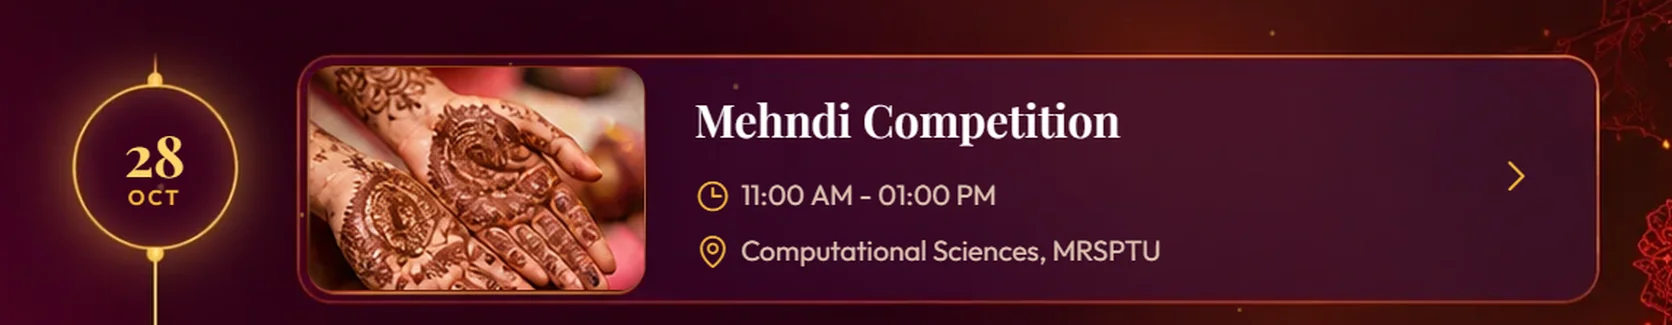
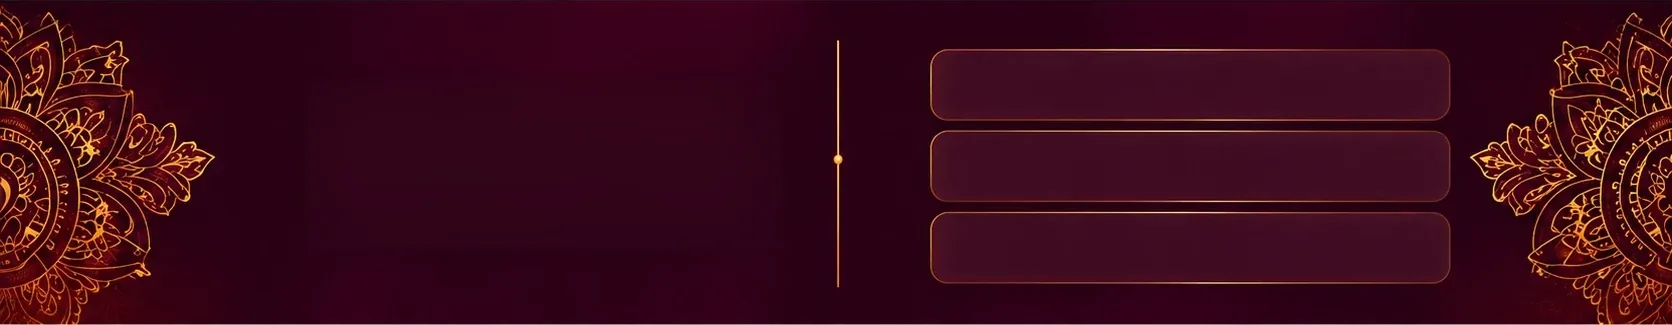
Fix overlaps left by the new hero plate and the band artwork
Restore the mandala band art (the previous file was a card screenshot)
and paint its three date boxes out; draw them in CSS so only the days
shown get a box. Frame the hero date items, give the hero and nav
Register buttons their own gold fill, hide the hero band of event
names, keep the phone campus photo clear of the heading, and stop the
marquee printing &amp;.

diff --git a/styles.css b/styles.css
@@ -85,10 +85,11 @@ section>.wrap{position:relative}
   .hn-links a{color:#fff;opacity:.92;transition:color .2s,opacity .2s}
   .hn-links a:hover{opacity:1;color:var(--gold-2)}
   .hn-reg{position:absolute;left:calc(1447*var(--u));top:calc(22*var(--u));width:calc(159*var(--u));height:calc(50*var(--u));display:flex;align-items:center;justify-content:center;
-    border-radius:var(--r-pill);color:var(--on-gold);font-weight:600;font-size:calc(20*var(--u));cursor:pointer;transition:box-shadow .25s}
+    border-radius:var(--r-pill);color:var(--on-gold);font-weight:600;font-size:calc(20*var(--u));cursor:pointer;transition:box-shadow .25s;
+    background:var(--gold) linear-gradient(180deg,var(--gold-2),var(--gold));box-shadow:0 calc(8*var(--u)) calc(24*var(--u)) rgba(242,150,40,.35)}
   .hn-reg:hover{box-shadow:0 0 calc(26*var(--u)) rgba(255,205,110,.65)}
 
-  .band{display:block;list-style:none;inset:0 0 auto 0;height:calc(150*var(--u));pointer-events:none}
+  .band{display:none;list-style:none;inset:0 0 auto 0;height:calc(150*var(--u));pointer-events:none}
   .band li{position:absolute;top:calc(100*var(--u));height:calc(46*var(--u));left:calc(var(--x)*var(--u));transform:translateX(-50%);display:flex;align-items:center;
     font-family:var(--serif);font-weight:700;font-size:calc(17.5*var(--u));letter-spacing:.13em;text-transform:uppercase;color:#4a0b24;white-space:nowrap}
 
@@ -101,7 +102,8 @@ section>.wrap{position:relative}
 
   .dates{display:block;list-style:none;left:0;top:calc(552*var(--u));width:100%;height:calc(106*var(--u));pointer-events:none}
   .dates li{position:absolute;top:0;height:100%;display:flex;align-items:center;gap:calc(18*var(--u));padding-left:calc(30*var(--u));
-    left:calc(98*var(--u));width:calc(220*var(--u));font-size:calc(21*var(--u));line-height:1.2;color:#ffe7c2;pointer-events:auto}
+    left:calc(98*var(--u));width:calc(220*var(--u));font-size:calc(21*var(--u));line-height:1.2;color:#ffe7c2;pointer-events:auto;
+    border:calc(1.5*var(--u)) solid rgba(242,181,58,.8);border-radius:calc(16*var(--u));background:linear-gradient(170deg,rgba(74,20,48,.55),rgba(42,10,29,.7));backdrop-filter:blur(4px)}
   .dates li:nth-child(2){left:calc(342*var(--u));width:calc(216*var(--u))}
   .dates li:nth-child(3){left:calc(582*var(--u));width:calc(209*var(--u))}
   .dates i{font-size:calc(34*var(--u));color:var(--gold-2)}
@@ -109,7 +111,8 @@ section>.wrap{position:relative}
 
   .hero-cta{display:block;margin:0;left:0;top:calc(702*var(--u));width:100%;height:calc(68*var(--u))}
   .hero-cta .btn{position:absolute;top:0;height:100%;min-height:0;padding:0;background:none;border:0;box-shadow:none;font-size:calc(24*var(--u));gap:calc(12*var(--u))}
-  .hero-cta .btn.gold{left:calc(97*var(--u));width:calc(268*var(--u));color:var(--on-gold)}
+  .hero-cta .btn.gold{left:calc(97*var(--u));width:calc(268*var(--u));color:var(--on-gold);border-radius:var(--r-pill);
+    background:var(--gold) linear-gradient(180deg,var(--gold-2),var(--gold));box-shadow:0 calc(10*var(--u)) calc(30*var(--u)) rgba(242,150,40,.35)}
   .hero-cta .btn.ghost{left:calc(383*var(--u));width:calc(256*var(--u));color:#fff}
   .hero-cta .btn:hover,.hero-cta .btn.gold:hover,.hero-cta .btn.ghost:hover{transform:none;background:rgba(255,255,255,.1);box-shadow:0 0 calc(28*var(--u)) rgba(255,205,110,.55)}
 }
@@ -135,8 +138,8 @@ section>.wrap{position:relative}
 .facts li{display:flex;align-items:center;gap:16px}
 .facts i{color:var(--gold);font-size:1.5rem}
 
-/* Desktop strip: band artwork (assets/ui/strip-band.webp, 1672x325) with three date boxes,
-   a divider and three venue rows built in. Content is placed in band units. */
+/* Desktop strip: band artwork (assets/ui/strip-band.webp, 1672x325) with the divider and three venue
+   rows built in. The date boxes are drawn here so only the days shown get one. Content is placed in band units. */
 @media (min-width:1100px){
   .strip{padding:0;border:0;container-type:inline-size;background:url(assets/ui/strip-band.webp) center/100% 100% no-repeat,#2a0818}
   .strip::before,.strip::after,.strip-in::before{display:none}
@@ -144,7 +147,9 @@ section>.wrap{position:relative}
   .sd,.facts{position:absolute;inset:0}
   .sd-label{position:absolute;left:calc(312*var(--s));top:calc(44*var(--s));margin:0;gap:calc(12*var(--s));font-size:calc(14*var(--s))}
   .sd-dates{display:block}
-  .sd-dates li{position:absolute;top:calc(88*var(--s));left:calc(312*var(--s));width:calc(139*var(--s));height:calc(150*var(--s));padding:0;border:0;background:none;border-radius:0;align-content:center}
+  .sd-dates li{position:absolute;top:calc(88*var(--s));left:calc(312*var(--s));width:calc(139*var(--s));height:calc(150*var(--s));padding:0;align-content:center;
+    border:calc(1.5*var(--s)) solid rgba(242,181,58,.8);border-radius:calc(14*var(--s));background:linear-gradient(170deg,rgba(74,20,48,.75),rgba(42,10,29,.9))}
+  .sd-dates li:only-child{left:calc(471*var(--s))}
   .sd-dates li:nth-child(2){left:calc(471*var(--s))}
   .sd-dates li:nth-child(3){left:calc(629*var(--s))}
   .sd-dates b{font-size:calc(52*var(--s))}
@@ -882,3 +887,9 @@ a.tag i{font-size:.9em}
 .dept-opts .btn{justify-content:center;width:100%}
 .dept-chip{border-color:var(--gold);color:var(--gold)}
 .ev-bar .ev-count{margin-left:auto}
+
+/* phones: campus photo sits above the copy, fading to ivory before the heading starts */
+@media (max-width:640px){
+  .open.ivory{background:linear-gradient(180deg,rgba(255,250,242,0) 90px,var(--ivory) 225px),url(assets/campus-m.webp) 70% 0/auto 240px no-repeat,var(--ivory)}
+  .open.ivory .open-copy{padding-top:200px}
+}

diff --git a/app.js b/app.js
@@ -158,7 +158,7 @@ if (PAGE === 'home') {
   // The scrolling strip names only the events still on: it drops a day's events with that day.
   const words = [...ORDER, ...EXTRA].filter(upcoming).map(n => ({ 'Mehndi Competition': 'Mehndi', 'Digital Reel Making': 'Digital Reel' }[n] || SHORT[n] || n));
   if (!isPast(2)) words.splice(words.indexOf('Dancing') + 1, 0, 'Exhibition');
-  const strip = words.map(w => `${esc(w)} ✦ `).join('');
+  const strip = words.map(w => `${w} ✦ `).join('');
   document.querySelectorAll('.marquee-track span').forEach(sp => { sp.textContent = strip; });
   // With eight tiles or fewer (the other-departments site, or late in the fest) every event shows at once,
   // in centred rows of four, and there is no "And Many More" tile.
